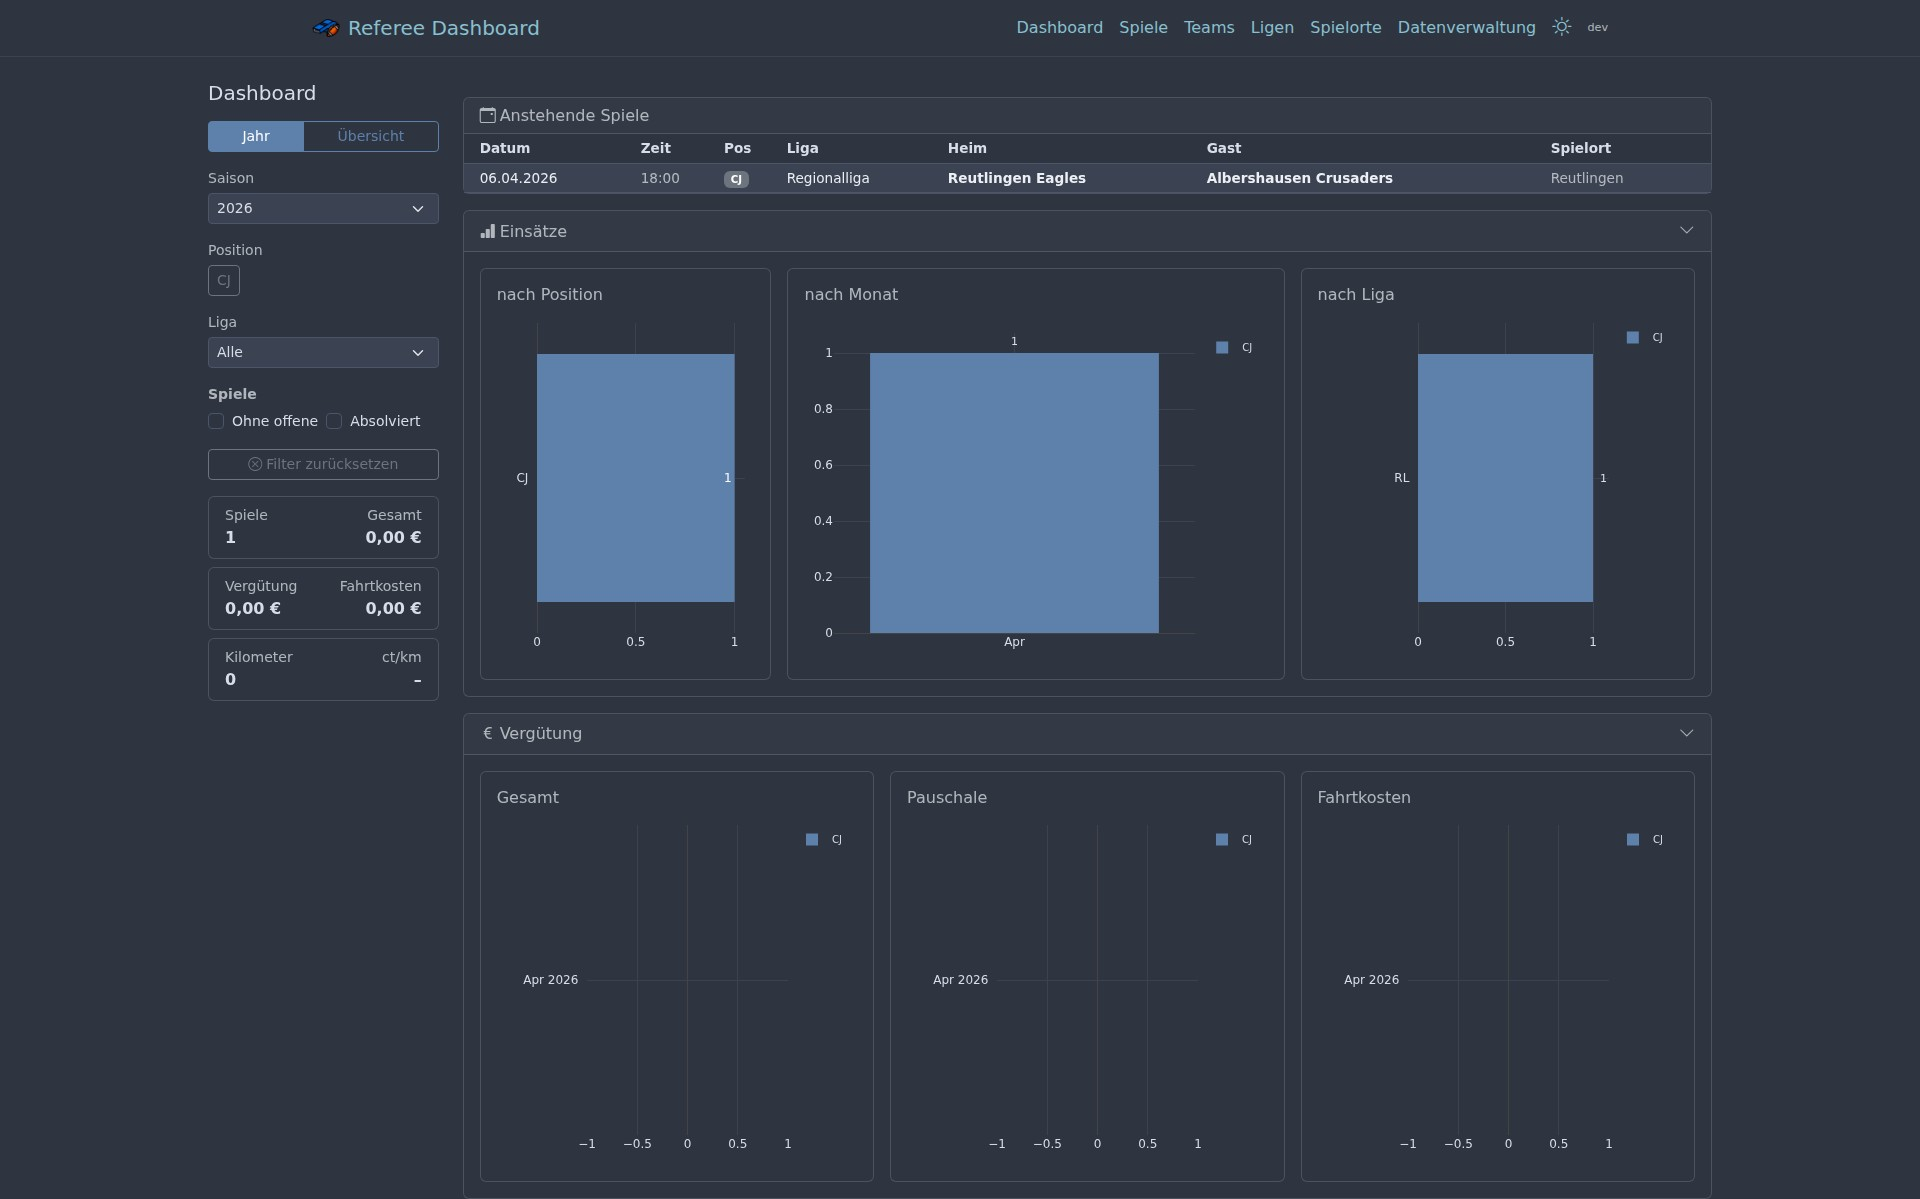
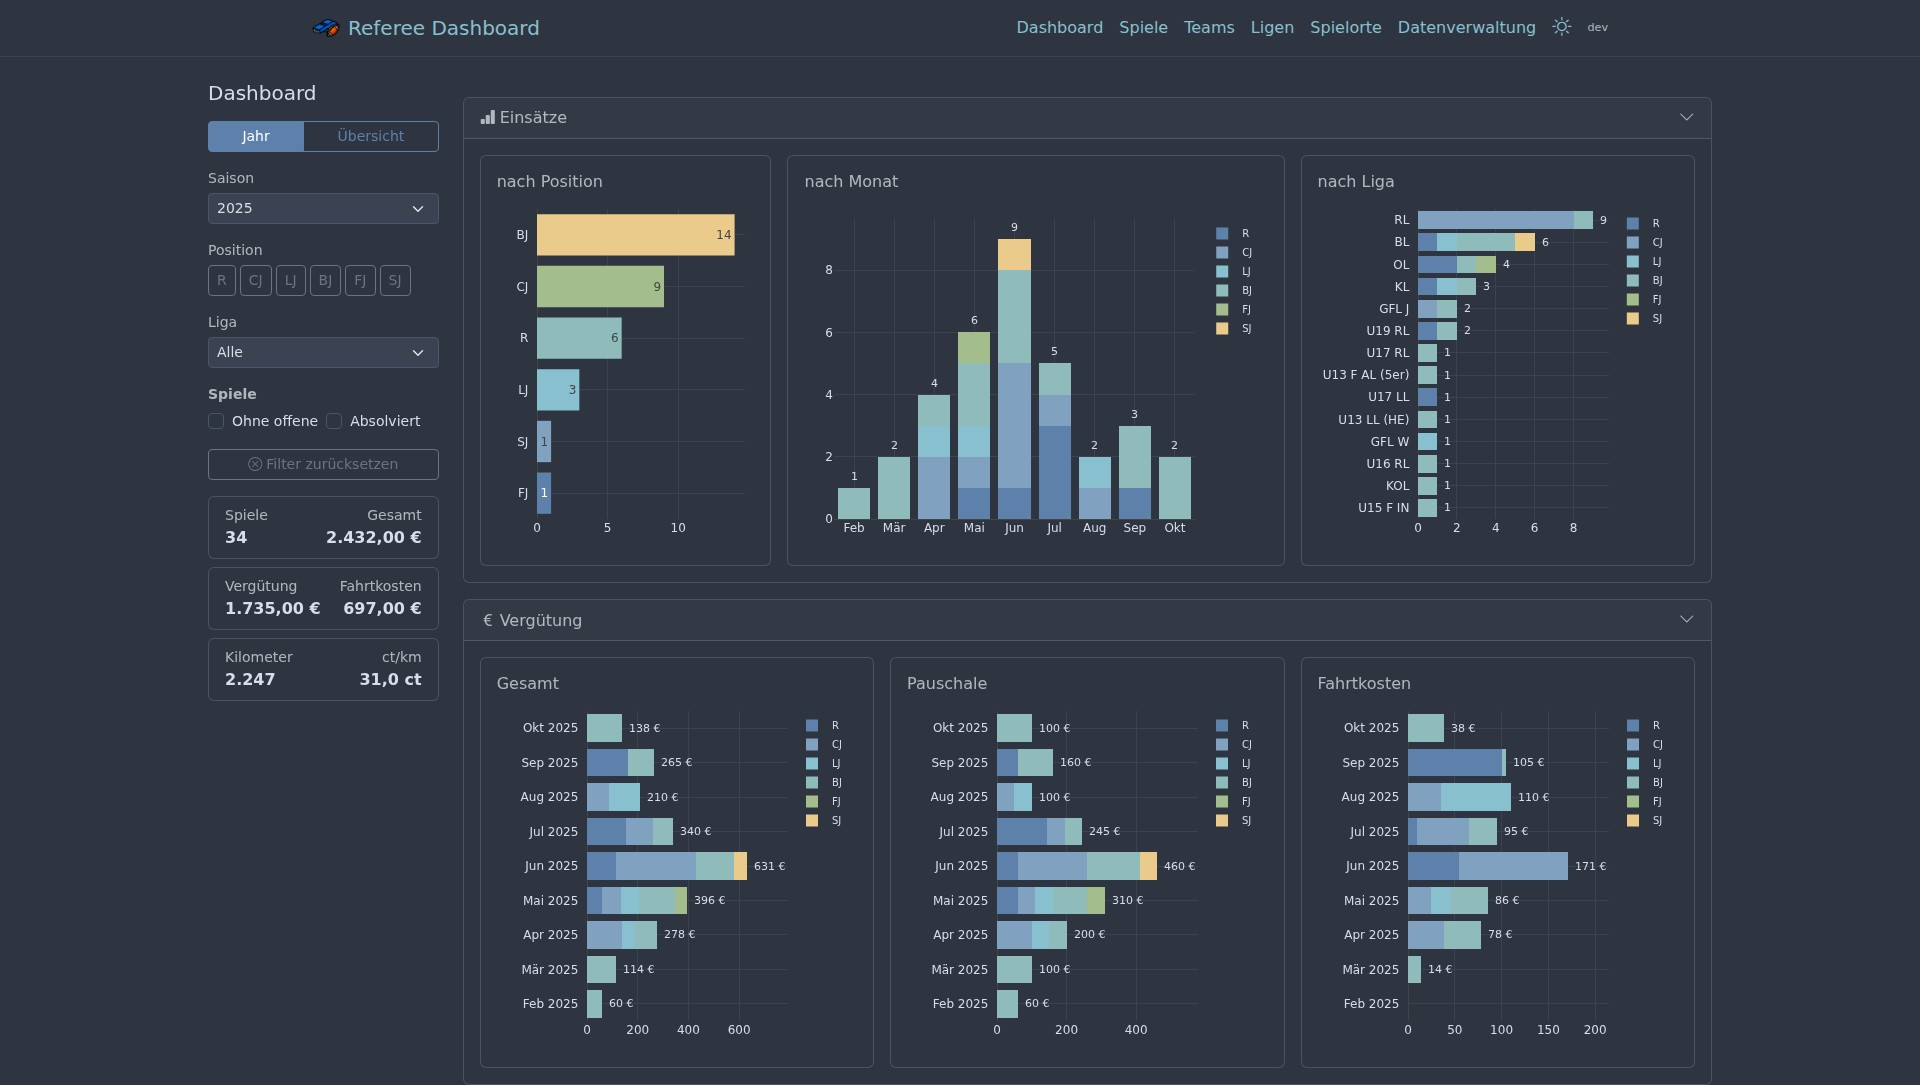
Add screenshots, GoReleaser + GitHub Actions release
- Dashboard screenshot uses 2025 season for fuller charts
- screenshots.go: automated with chromedp, Alpine.js season switch
- GoReleaser: cross-compile linux/darwin/windows (amd64/arm64)
- GitHub Actions: release on tag push (v*)

diff --git a/scripts/screenshots.go b/scripts/screenshots.go
@@ -22,7 +22,6 @@ func main() {
 		name string
 		url  string
 	}{
-		{"screenshot-dashboard", "/dashboard/"},
 		{"screenshot-games", "/games"},
 		{"screenshot-form-validation", "/games/new"},
 		{"screenshot-data", "/data"},
@@ -64,10 +63,29 @@ func main() {
 		fmt.Printf("  -> %s (%d KB)\n", path, len(buf)/1024)
 	}
 
+	// Dashboard: switch to 2025 season for a fuller screenshot
+	fmt.Println("Capturing screenshot-dashboard ...")
+	var dashBuf []byte
+	err := chromedp.Run(ctx,
+		chromedp.Navigate(baseURL+"/dashboard/"),
+		chromedp.Sleep(3*time.Second),
+		// Set season to 2025 via Alpine.js reactivity
+		chromedp.Evaluate(`Alpine.evaluate(document.querySelector('[x-data="dashboard"]'), 'season = "2025"')`, nil),
+		chromedp.Sleep(3*time.Second),
+		chromedp.FullScreenshot(&dashBuf, 90),
+	)
+	if err != nil {
+		log.Printf("Error capturing dashboard: %v", err)
+	} else {
+		path := "docs/screenshot-dashboard.png"
+		os.WriteFile(path, dashBuf, 0o644)
+		fmt.Printf("  -> %s (%d KB)\n", path, len(dashBuf)/1024)
+	}
+
 	// Overview: need to click the "Übersicht" button first
 	fmt.Println("Capturing screenshot-overview ...")
 	var buf []byte
-	err := chromedp.Run(ctx,
+	err = chromedp.Run(ctx,
 		chromedp.Navigate(baseURL+"/dashboard/"),
 		chromedp.Sleep(3*time.Second),
 		chromedp.Click(`button[class*="btn"]`, chromedp.ByQuery, chromedp.NodeVisible),
